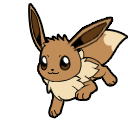
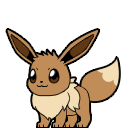
Version 1 - Eevee mascot

diff --git a/windows/drag.js b/windows/drag.js
@@ -34,7 +34,7 @@ function dragElement(elmnt) {
       state.dragged = true;
       contextMenu.classList.remove("visible");
       menuHitbox.classList.remove("visible");
-      mascot.src = "../mascots/eevee/Shime12.png"
+      mascot.src = "../mascots/eevee/shime12.png"
       // get the mouse cursor position at startup:
       pos3 = e.clientX;
       pos4 = e.clientY;
@@ -59,13 +59,15 @@ function dragElement(elmnt) {
 
   function closeDragElement() {
     // stop moving when mouse button is released:
-    mascot.src = "../mascots/eevee/Shime7.png"
+    mascot.src = "../mascots/eevee/shime36.png"
     posdiv.classList.add("motion");
     document.onmouseup = null;
     document.onmousemove = null;
+    state.dragged = false;
     state.falls = true;
     state.idle = false;
-    state.dragged = false;
+    state.animated = false;
+    //idleAnimation();
   }
 }
 
@@ -83,6 +85,7 @@ const state = {
   dragged: false,
   falls: true,
   idle: false,
+  animated:false
 };
 
 
@@ -101,19 +104,76 @@ function mainRunner() {
     else {
       state.falls = false;
       posdiv.style.top = window.innerHeight-128+"px"
-      mascot.src = "../mascots/eevee/Shime37.png"
+      mascot.src = "../mascots/eevee/shime37.png"
       posdiv.classList.remove("motion");
       }
     }
-  else if(state.dragged == true) { 
-    ;
-  }
+  
   else if(state.falls == false && state.idle == false) { 
-    setTimeout(()=> mascot.src = "../mascots/eevee/Shime1.png", 175)
     state.idle = true;
+    iteration = 1;
+    idleAnimation()
   }
-  else if (state.idle == true){
-    ;
-  }
+  
   requestAnimationFrame(mainRunner);
+}
+
+setTimeout(()=> {mascot.src = "../mascots/eevee/shime1.png"; idleAnimation()}, 100)
+
+var iteration;
+
+function idleAnimation(){
+  setTimeout( ()=> {
+    if(state.falls == false && state.dragged == false && state.animated == false){
+    mascot.src = "../mascots/eevee/shime"+iteration+".png"; idleAnimation()} 
+  }, iterCount(1, 7))
+}
+
+function hello() {
+  setTimeout( ()=> {
+    if(state.falls == false && state.dragged == false && state.animated == true){
+    mascot.src = "../mascots/eevee/shime"+iteration+".png"; hello()} 
+  }, iterCount(30, 35))
+}
+
+function legs() {
+  setTimeout( ()=> {
+    if(state.falls == false && state.dragged == false && state.animated == true){
+    mascot.src = "../mascots/eevee/shime"+iteration+".png"; legs()} 
+  }, iterCount(26, 29))
+}
+
+function walk() {
+  setTimeout( ()=> {
+    if(state.falls == false && state.dragged == false && state.animated == true){
+    mascot.src = "../mascots/eevee/shime"+iteration+".png";
+    if(parseInt(posdiv.style.left)>0){posdiv.style.left = parseInt(posdiv.style.left)-5+"px"} walk()} 
+  }, iterCount(8, 11))
+}
+
+function randomIdleAction(){
+  var randomvar = Math.floor(Math.random() * 20)
+    if(randomvar == 10|| randomvar == 11) { state.animated=true; iteration=8; walk(); }
+    else if(randomvar == 12|| randomvar == 13) { state.animated=true; iteration=8; walk(); }
+    else if(randomvar == 14|| randomvar == 15) { state.animated=true; iteration=30; hello(); }
+    else if(randomvar == 16|| randomvar == 17) { state.animated=true; iteration=26; legs(); }
+    //else if(randomvar == 19) { hello(); state.animated=true }
+}
+
+function randomContinueAction(){
+  var randomvar = Math.floor(Math.random() * 4)
+  //alert("random walk ")
+    if(randomvar == 3) { state.animated=false; iteration=1; idleAnimation() }
+    //else if(randomvar == 19) { hello(); state.animated=true }
+}
+
+function iterCount(start, max) {
+  if(iteration==max) {
+    iteration=start;
+    if(state.animated == false){randomIdleAction(); return 1100}
+    else if(state.animated == true){randomContinueAction(); return 300}
+    else { return 300 }
+    }
+  else{
+    iteration++; return 300}
 }

diff --git a/windows/start.html b/windows/start.html
@@ -10,25 +10,29 @@
 <body>
   <div id="hitbox">
     <div id="posdiv">
-      <img src="../mascots/eevee/Shime7.png" id="mascot">
+      <img id="mascot">
     </div>
     <div id="context-menu">
       <div class="item" id="display-flex"><img src="../foxtop.ico" style="height: 32px; width: 32px;">
-        <p style="right: 2px;"><b>Foxtop</b></p></div>
+        <p><b>Foxtop</b></p></div>
       <p class="item">Size:</p>
       <input class="item" id="slider" type="range" min="1" max="100" value="50">
-      <select class="item" size="1">
-        <option value="1">1</option>
-        <option value="2">2</option>
-      </select>
-      <select class="item" size="1">
-        <option value="3">3</option>
-        <option value="4">4</option>
-      </select>
-      <select class="item" size="1">
-        <option value="3">Action</option>
-        <option value="4">No action :(</option>
-      </select>
+      <div id="display-flex" style="justify-content: space-evenly;">
+        <p>x:</p><select size="1">
+          <option value="1">1</option>
+          <option value="2">2</option>
+        </select>
+        <p>y:</p><select size="1">
+          <option value="3">3</option>
+          <option value="4">4</option>
+        </select>
+      </div>
+      <div id="display-flex">
+        <select class="item" size="1">
+          <option value="3">Action</option>
+          <option value="4">No action :(</option>
+        </select>
+      </div>
       <div class="item">Clone</div>
       <div class="item">Dismiss</div>
     </div>

diff --git a/windows/start.css b/windows/start.css
@@ -19,7 +19,7 @@ body {
 }
 
 #posdiv.motion{
-  transition: top 0.1s linear;
+  transition: all 0.1s linear;
 }
 
 #context-menu {
@@ -37,12 +37,15 @@ body {
 }
 
 #context-menu .item {
-  margin: 7px 7px;
+  margin: 2px 7px;
   font-size: 15px;
   color: #000;
 }
 
 #display-flex {
+  font-size: 15px;
+  margin: 2px 2px;
+  color: #000;
   display:flex;
   justify-content: space-between;
   align-items: center;
